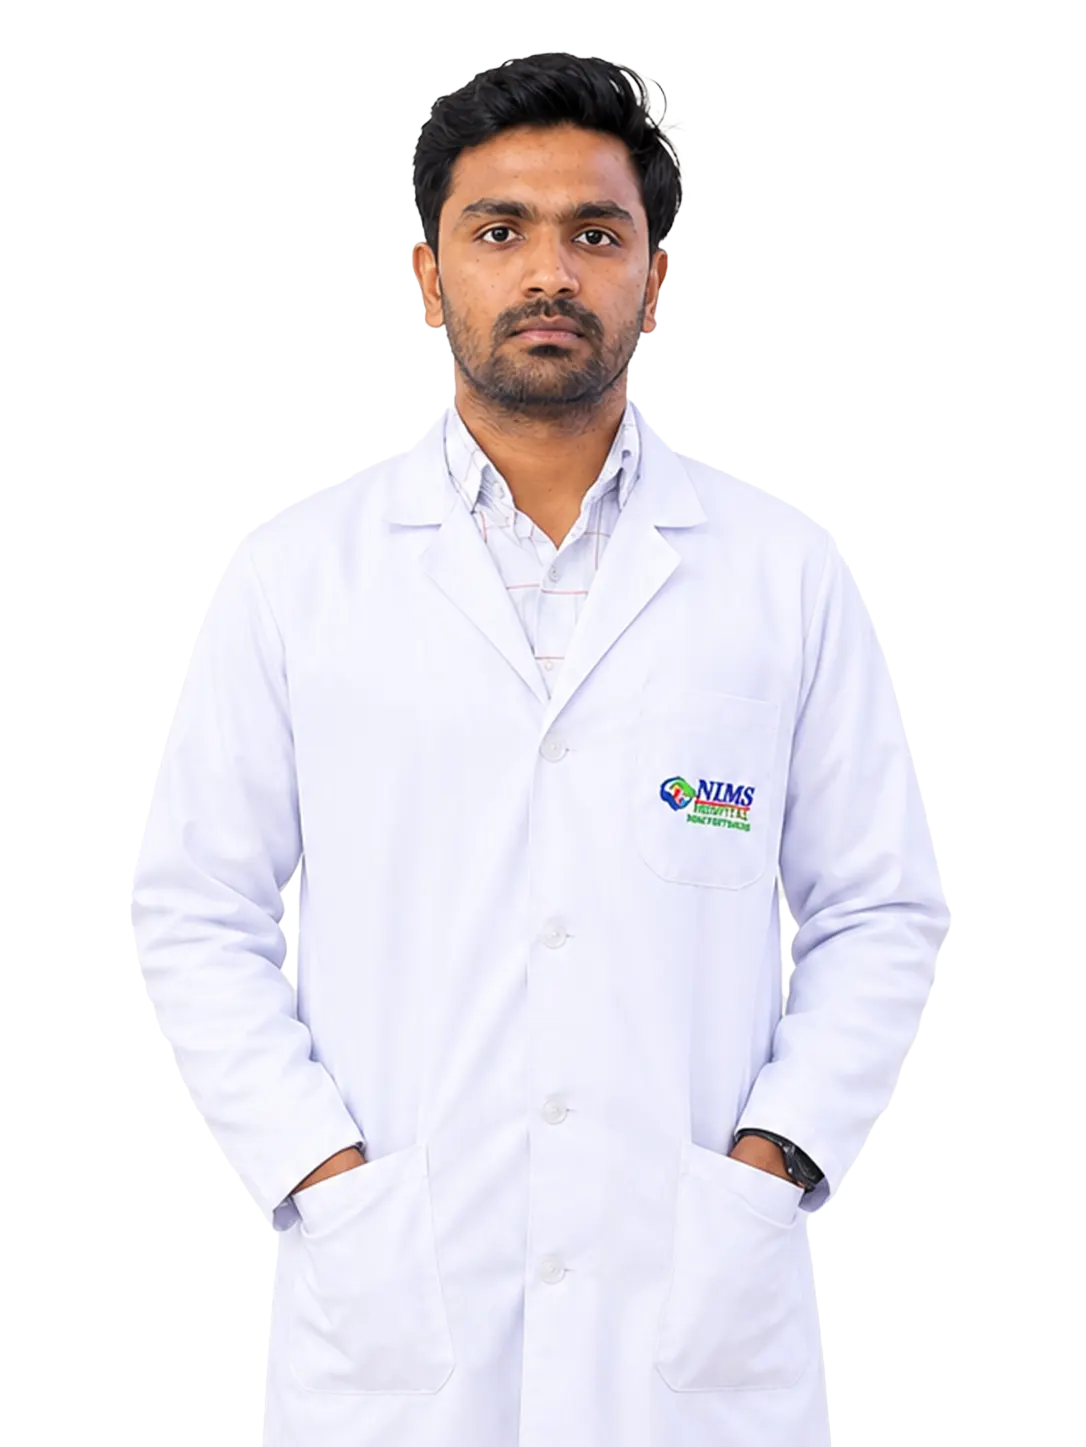
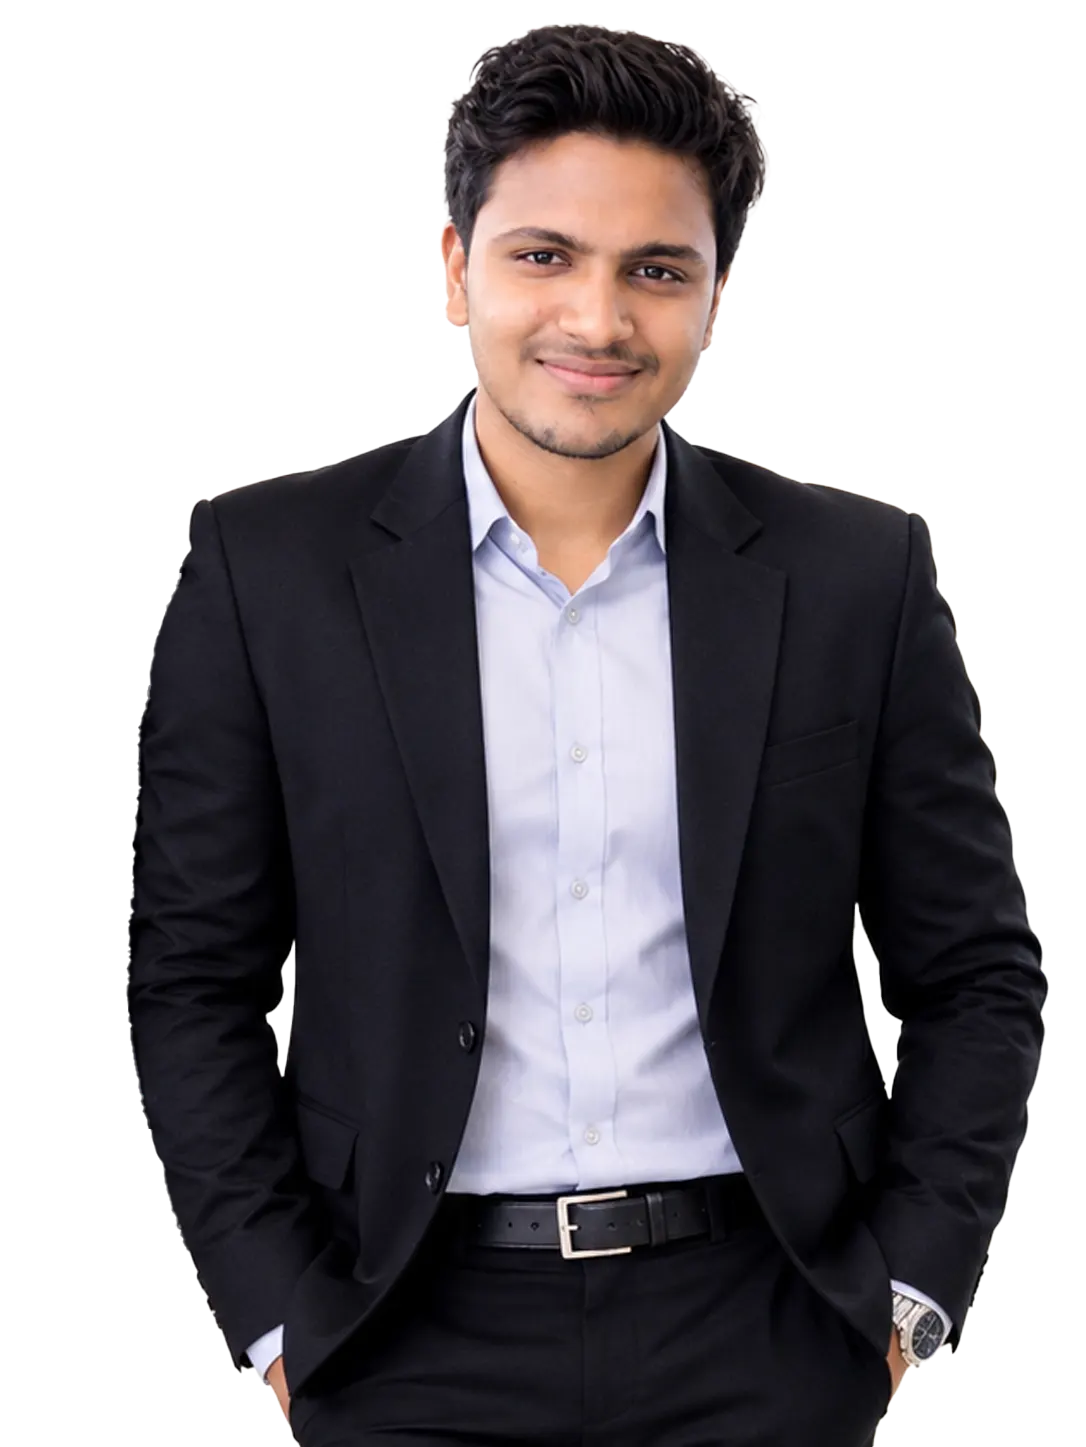
hero section updated

diff --git a/index.html b/index.html
@@ -80,13 +80,13 @@
      </div>
      <div aria-label="Dream, learn, achieve and experience at NIMS" class="hero-student hero-rotator" id="hero-portraits" role="group">
       <div aria-hidden="true" class="portrait-slide motion-slide" inert="">
-       <img alt="MBA student — Dream" decoding="async" height="1400" fetchpriority="high" loading="eager" src="images/001.webp" width="1050">
+       <img alt="MBA student — Dream" decoding="async" height="1400" fetchpriority="high" loading="eager" src="images/achive.webp" width="1050">
       </div>
       <div aria-hidden="true" class="portrait-slide motion-slide" inert="">
-       <img alt="MBA student — Learn" decoding="async" height="1400" loading="lazy" src="images/002.webp" width="1049">
+       <img alt="MBA student — Learn" decoding="async" height="1400" loading="lazy" src="images/learn.webp" width="1049">
       </div>
       <div aria-hidden="false" class="portrait-slide motion-slide is-current">
-       <img alt="MBA student — Achieve" decoding="async" height="1400" loading="lazy" src="images/003.webp" width="1049">
+       <img alt="MBA student — Achieve" decoding="async" height="1400" loading="lazy" src="images/dreem.webp" width="1049">
       </div>
       <!-- <div aria-hidden="true" class="portrait-slide motion-slide" inert="">
        <img alt="MBA student — Experience" decoding="async" height="1400" loading="lazy" src="images/hero-slide-img.png" width="1049">
